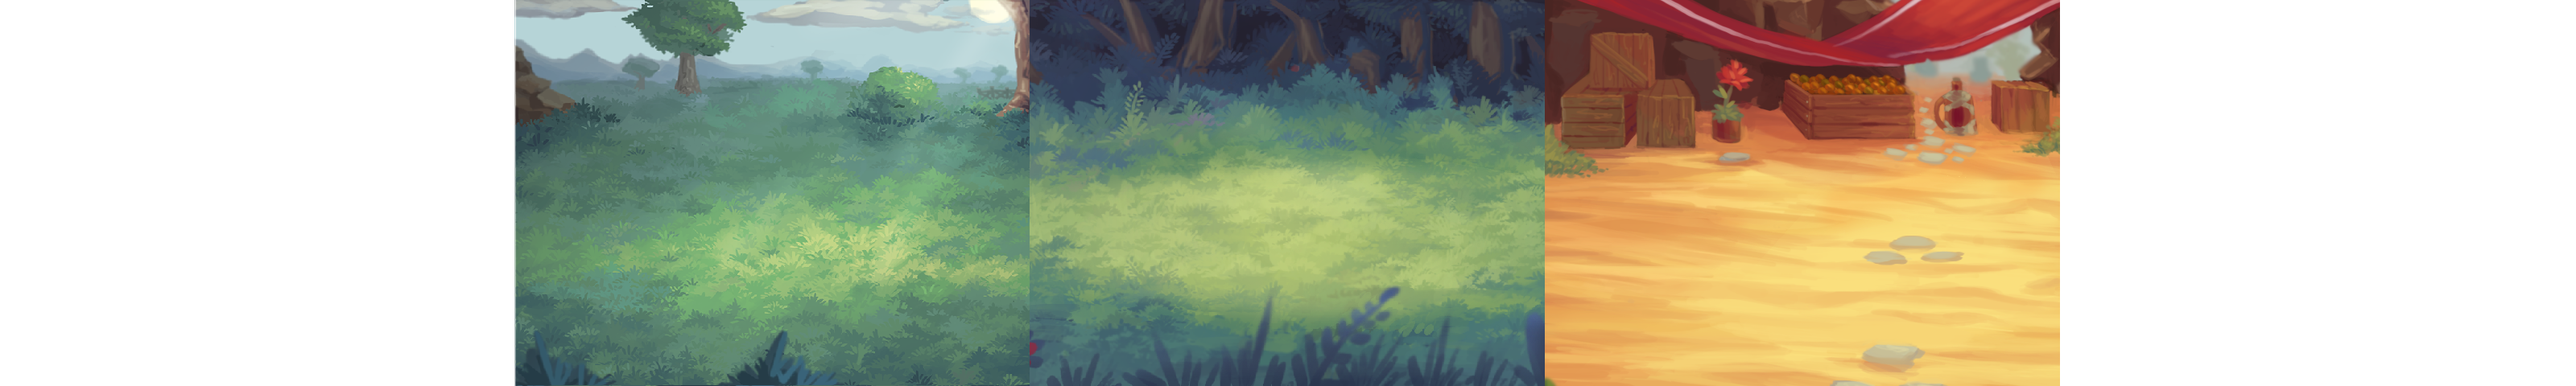
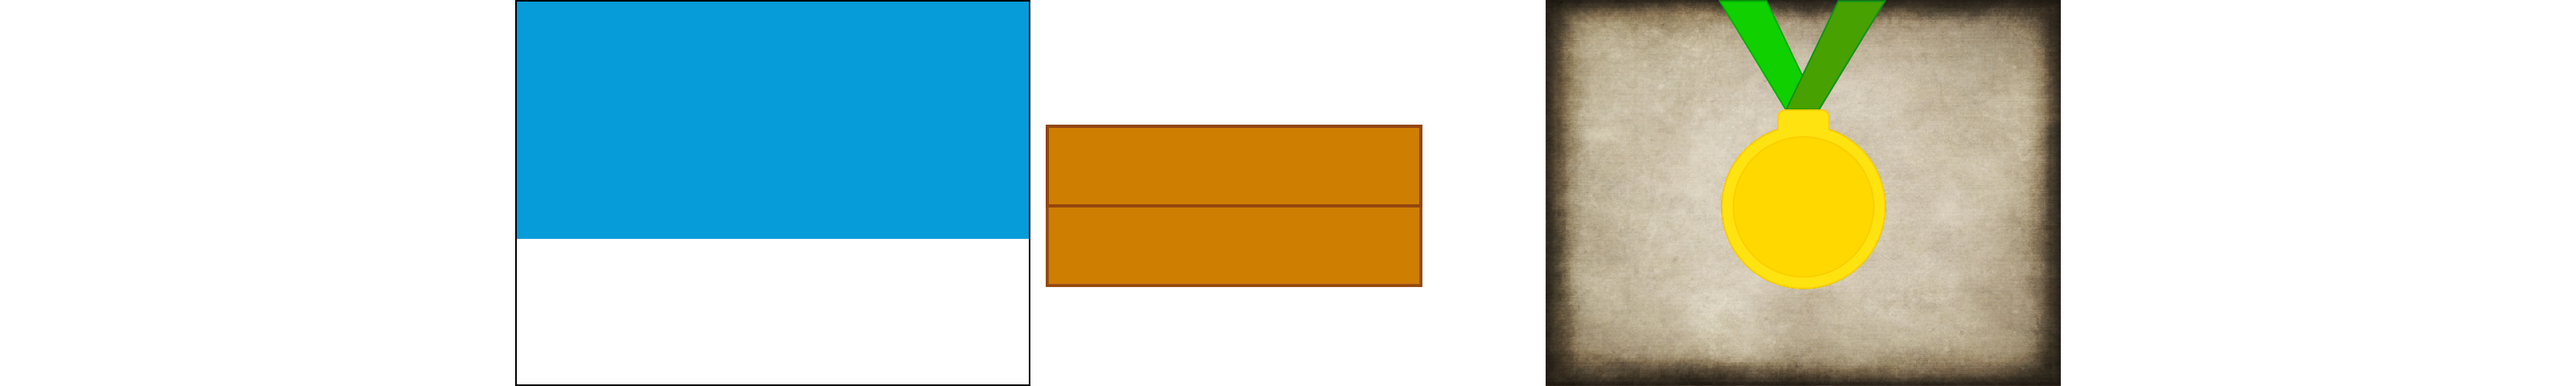
update

diff --git a/demo-core/src/hundun/gdxgame/idledemo/logic/TextureManager.java b/demo-core/src/hundun/gdxgame/idledemo/logic/TextureManager.java
@@ -28,33 +28,33 @@ public class TextureManager extends AbstractTextureManager {
         {
             Texture texture = new Texture(Gdx.files.internal("resourceEntities.png"));
             TextureRegion[][] regions = TextureRegion.split(texture, 32, 32);
-            constructionEntityMap.put(ConstructionId.COOKIE_CLICK_PROVIDER, regions[0][0]);
-            constructionEntityMap.put(ConstructionId.COOKIE_AUTO_PROVIDER, regions[0][1]);
-            constructionEntityMap.put(ConstructionId.COOKIE_SELLER, regions[0][2]);
-            constructionEntityMap.put(ConstructionId.WIN_PROVIDER, regions[0][3]);
+            resourceEntityMap.put(ResourceType.COOKIE, regions[0][1]);
         }
         {
             Texture texture = new Texture(Gdx.files.internal("constructionEntities.png"));
-            TextureRegion[][] regions = TextureRegion.split(texture, 16, 32);
-            constructionEntityMap.put(ConstructionId.COOKIE_CLICK_PROVIDER, regions[0][0]);
+            TextureRegion[][] regions = TextureRegion.split(texture, 32, 32);
+            //constructionEntityMap.put(ConstructionId.COOKIE_CLICK_PROVIDER, regions[0][0]);
             constructionEntityMap.put(ConstructionId.COOKIE_AUTO_PROVIDER, regions[0][1]);
             constructionEntityMap.put(ConstructionId.COOKIE_SELLER, regions[0][2]);
-            constructionEntityMap.put(ConstructionId.WIN_PROVIDER, regions[0][3]);
+            //constructionEntityMap.put(ConstructionId.WIN_PROVIDER, regions[0][3]);
         }  
         {
             Texture texture = new Texture(Gdx.files.internal("gameAreaIcons.png"));
             TextureRegion[][] regions = TextureRegion.split(texture, 100, 50);
-            gameAreaLeftPartRegionMap.put(GameArea.AREA_0, regions[0][0]);
-            gameAreaLeftPartRegionMap.put(GameArea.AREA_1, regions[1][0]);
-            gameAreaRightPartRegionMap.put(GameArea.AREA_0, regions[0][1]);
-            gameAreaRightPartRegionMap.put(GameArea.AREA_1, regions[1][1]);
+            gameAreaLeftPartRegionMap.put(GameArea.AREA_COOKIE, regions[0][0]);
+            gameAreaLeftPartRegionMap.put(GameArea.AREA_BUILDING, regions[1][0]);
+            gameAreaLeftPartRegionMap.put(GameArea.AREA_WIN, regions[2][0]);
+            gameAreaRightPartRegionMap.put(GameArea.AREA_COOKIE, regions[0][1]);
+            gameAreaRightPartRegionMap.put(GameArea.AREA_BUILDING, regions[1][1]);
+            gameAreaRightPartRegionMap.put(GameArea.AREA_WIN, regions[2][1]);
         }
         {
             Texture texture = new Texture(Gdx.files.internal("areas.png"));
             TextureRegion[][] regions = TextureRegion.split(texture, 640, 480);
             defaultAreaBack = regions[0][0];
-            gameAreaBackMap.put(GameArea.AREA_0, regions[0][1]);
-            gameAreaBackMap.put(GameArea.AREA_1, regions[0][2]);
+            gameAreaBackMap.put(GameArea.AREA_COOKIE, regions[0][1]);
+            gameAreaBackMap.put(GameArea.AREA_BUILDING, regions[0][2]);
+            gameAreaBackMap.put(GameArea.AREA_WIN, regions[0][3]);
         }
         
     }

diff --git a/idleframe/src/hundun/gdxgame/idleframe/model/entity/RandomMoveEntity.java b/idleframe/src/hundun/gdxgame/idleframe/model/entity/RandomMoveEntity.java
@@ -1,4 +1,8 @@
 package hundun.gdxgame.idleframe.model.entity;
+
+import lombok.Getter;
+import lombok.Setter;
+
 /**
  * @author hundun
  * Created on 2021/12/04
@@ -10,7 +14,9 @@ public class RandomMoveEntity extends GameEntity {
     public float FLY_MIN_Y;
     public float FLY_MAX_Y;
     private double FLY_UNION_SPEED;
-    
+    @Setter
+    @Getter
+    int randomMoveCount;
     
     
     public RandomMoveEntity(float FLY_MIN_X, float FLY_MAX_X, float FLY_MIN_Y, float FLY_MAX_Y,
@@ -26,29 +32,28 @@ public class RandomMoveEntity extends GameEntity {
 
 
     @Override
-    public void checkRandomeMoveSpeedChange() {
-        if (this.isRandomMove()) {
-            if (this.getRandomMoveCount() > 0) {
-                this.setRandomMoveCount(this.getRandomMoveCount() - 1);
-            } else {
-                this.setRandomMoveCount(50 + (int) (Math.random() * 50));
-                double angle = Math.toRadians(Math.random() * 360);
-                double unionSpeed = FLY_UNION_SPEED;
-                this.setSpeedX((float) (unionSpeed * Math.cos(angle)));
-                this.setSpeedY((float) (unionSpeed * Math.sin(angle)));
-            }
-            
-            if ((this.getX() < FLY_MIN_X && this.getSpeedX() < 0) 
-                    || (this.getX() + this.getDrawWidth() > FLY_MAX_X && this.getSpeedX() > 0)) {
-                this.setSpeedX(this.getSpeedX() * -1);
-            }
-            if ((this.getY() < FLY_MIN_Y && this.getSpeedY() < 0) 
-                    || (this.getY() + this.getDrawHeight() > FLY_MAX_Y && this.getSpeedY() > 0)) {
-                this.setSpeedY(this.getSpeedY() * -1);
-            }
-            
-            this.setTextureFlipX(this.getSpeedX() < 0);
-
+    public void checkMoveSpeedChange() {
+        if (this.getRandomMoveCount() > 0) {
+            this.setRandomMoveCount(this.getRandomMoveCount() - 1);
+        } else {
+            this.setRandomMoveCount(50 + (int) (Math.random() * 50));
+            double angle = Math.toRadians(Math.random() * 360);
+            double unionSpeed = FLY_UNION_SPEED;
+            this.setSpeedX((float) (unionSpeed * Math.cos(angle)));
+            this.setSpeedY((float) (unionSpeed * Math.sin(angle)));
         }
+        
+        if ((this.getX() < FLY_MIN_X && this.getSpeedX() < 0) 
+                || (this.getX() + this.getDrawWidth() > FLY_MAX_X && this.getSpeedX() > 0)) {
+            this.setSpeedX(this.getSpeedX() * -1);
+        }
+        if ((this.getY() < FLY_MIN_Y && this.getSpeedY() < 0) 
+                || (this.getY() + this.getDrawHeight() > FLY_MAX_Y && this.getSpeedY() > 0)) {
+            this.setSpeedY(this.getSpeedY() * -1);
+        }
+        
+        this.setTextureFlipX(this.getSpeedX() < 0);
+
     }
+
 }

diff --git a/idleframe/src/hundun/gdxgame/idleframe/model/entity/BaseGameEntityFactory.java b/idleframe/src/hundun/gdxgame/idleframe/model/entity/BaseGameEntityFactory.java
@@ -33,6 +33,26 @@ public abstract class BaseGameEntityFactory {
         this.parent = parent;
     }
     
+    protected GameEntity failingResourcEntity(String resourceId, int MIN_X, int MAX_X, int START_Y, int REMOVE_Y, double BASE_FAILING_SPEED, double FAILING_SPEED_RANDOM_RANGE) {
+        Sprite sprite = new Sprite(parent.game.getTextureManager().getResourceEntity(resourceId));
+        MAX_X = (int) (MAX_X - DEFAULT_RESOURCE_WIDTH_SCALE * sprite.getRegionWidth());
+        REMOVE_Y = (int) (REMOVE_Y + DEFAULT_RESOURCE_HEIGHT_SCALE * sprite.getRegionHeight());
+        int randX = (int) (MIN_X + Math.random() * (MAX_X - MIN_X));
+        double speed = BASE_FAILING_SPEED + Math.random() * FAILING_SPEED_RANDOM_RANGE;
+        
+        FailingEntity entity = new FailingEntity(REMOVE_Y);
+        entity.setTexture(sprite);
+        entity.setX(randX);
+        entity.setY(START_Y);
+        entity.setDrawWidth((int) (DEFAULT_RESOURCE_WIDTH_SCALE * entity.getTexture().getRegionWidth()));
+        entity.setDrawHeight((int) (DEFAULT_RESOURCE_HEIGHT_SCALE * entity.getTexture().getRegionHeight()));
+        entity.setMoveable(true);
+        entity.setSpeedY((float) (-1.0 * speed));
+        entity.checkMoveSpeedChange();
+        return entity;
+    }
+    
+    
     protected GameEntity randomMoveResourcEntity(String resourceId, int MIN_X, int MAX_X, int MIN_Y, int MAX_Y, double FLY_UNION_SPEED) {
         Sprite sprite = new Sprite(parent.game.getTextureManager().getResourceEntity(resourceId));
         MAX_X = (int) (MAX_X - DEFAULT_RESOURCE_WIDTH_SCALE * sprite.getRegionWidth());
@@ -44,9 +64,8 @@ public abstract class BaseGameEntityFactory {
         entity.setY((MAX_Y - MIN_Y) / 2);
         entity.setDrawWidth(entity.getTexture().getRegionWidth());
         entity.setDrawHeight(entity.getTexture().getRegionHeight());
-        entity.setRandomMove(true);
-        entity.setRandomMoveCount(0);
-        entity.checkRandomeMoveSpeedChange();
+        entity.setMoveable(true);
+        entity.checkMoveSpeedChange();
         return entity;
     }
     
@@ -87,7 +106,7 @@ public abstract class BaseGameEntityFactory {
         entity.setY(y);
         entity.setDrawWidth((int) (WIDTH_SCALE * entity.getTexture().getRegionWidth()));
         entity.setDrawHeight((int) (HEIGHT_SCALE * entity.getTexture().getRegionHeight()));
-        entity.setRandomMove(false);
+        entity.setMoveable(false);
         return entity;
     }
     

diff --git a/demo-core/src/hundun/gdxgame/idledemo/ui/screen/PlayScreen.java b/demo-core/src/hundun/gdxgame/idledemo/ui/screen/PlayScreen.java
@@ -34,7 +34,7 @@ import hundun.gdxgame.idlestarter.ui.screen.play.PlayScreenLayoutConst;
 public class PlayScreen extends BasePlayScreen<IdleDemoGame> {
 
     public PlayScreen(IdleDemoGame game) {
-        super(game, GameArea.AREA_0, new PlayScreenLayoutConst(game.LOGIC_WIDTH, game.LOGIC_HEIGHT));
+        super(game, GameArea.AREA_COOKIE, new PlayScreenLayoutConst(game.LOGIC_WIDTH, game.LOGIC_HEIGHT));
     }
     
     @Override
@@ -53,15 +53,17 @@ public class PlayScreen extends BasePlayScreen<IdleDemoGame> {
         
         storageInfoTable = new StorageInfoBoard<IdleDemoGame>(this);
         storageInfoTable.lazyInit(ResourceType.VALUES_FOR_SHOW_ORDER);
-        uiRootTable.add(storageInfoTable).height(layoutConst.STORAGE_BOARD_BORDER_HEIGHT).row();
+        uiRootTable.add(storageInfoTable).height(layoutConst.STORAGE_BOARD_BORDER_HEIGHT).fill().row();
         
         gameAreaControlBoard = new GameAreaControlBoard<IdleDemoGame>(this, GameArea.values);
         uiRootTable.add(gameAreaControlBoard).expand().right().row();
 
         constructionControlBoard = new ConstructionControlBoard<IdleDemoGame>(this);
-        uiRootTable.add(constructionControlBoard).height(layoutConst.CONSTRUCION_BOARD_BORDER_HEIGHT);
+        uiRootTable.add(constructionControlBoard).height(layoutConst.CONSTRUCION_BOARD_BORDER_HEIGHT).fill();
         
-        uiRootTable.debugCell();
+        if (game.debugMode) {
+            uiRootTable.debugCell();
+        }
     }
     
     @Override

diff --git a/demo-core/src/hundun/gdxgame/idledemo/IdleDemoGameConfig.java b/demo-core/src/hundun/gdxgame/idledemo/IdleDemoGameConfig.java
@@ -30,12 +30,14 @@ public class IdleDemoGameConfig extends ChildGameConfig {
         this.setConstructions(builtinConstructionsLoader.load());
         
         Map<String, List<String>> areaShownConstructionIds = new HashMap<>(); 
-        areaShownConstructionIds.put(GameArea.AREA_0, Arrays.asList(
-                ConstructionId.COOKIE_CLICK_PROVIDER,
+        areaShownConstructionIds.put(GameArea.AREA_COOKIE, Arrays.asList(
+                ConstructionId.COOKIE_CLICK_PROVIDER
+        ));
+        areaShownConstructionIds.put(GameArea.AREA_BUILDING, Arrays.asList(
                 ConstructionId.COOKIE_AUTO_PROVIDER,
                 ConstructionId.COOKIE_SELLER
         ));
-        areaShownConstructionIds.put(GameArea.AREA_1, Arrays.asList(
+        areaShownConstructionIds.put(GameArea.AREA_WIN, Arrays.asList(
                 ConstructionId.WIN_PROVIDER
         ));
 
@@ -43,7 +45,7 @@ public class IdleDemoGameConfig extends ChildGameConfig {
         this.setAreaShowEntityConstructionIds(areaShownConstructionIds);
         
         Map<String, List<String>> areaShownResourceIds = new HashMap<>(); 
-        areaShownResourceIds.put(GameArea.AREA_0, Arrays.asList(
+        areaShownResourceIds.put(GameArea.AREA_COOKIE, Arrays.asList(
             ResourceType.COOKIE
         ));
         this.setAreaShowEntityResourceIds(areaShownResourceIds);

diff --git a/idleframe/src/hundun/gdxgame/idleframe/model/manager/GameEntityManager.java b/idleframe/src/hundun/gdxgame/idleframe/model/manager/GameEntityManager.java
@@ -42,15 +42,22 @@ public class GameEntityManager {
         for (var entry : gameEntitiesOfConstructionIds.entrySet()) {
             Queue<GameEntity> queue = entry.getValue();
             queue.forEach(entity -> {
-                entity.checkRandomeMoveSpeedChange();
+                entity.checkMoveSpeedChange();
                 positionChange(entity);
             });
         }
         
         for (var entry : gameEntitiesOfResourceIds.entrySet()) {
             Queue<GameEntity> queue = entry.getValue();
+            queue.removeIf(entity -> {
+                boolean remove = entity.checkRemove();
+                if (remove) {
+                    Gdx.app.log(this.getClass().getSimpleName(), "entity removed by self check");
+                }
+                return remove;
+                });
             queue.forEach(entity -> {
-                entity.checkRandomeMoveSpeedChange();
+                entity.checkMoveSpeedChange();
                 positionChange(entity);
             });
 
@@ -75,7 +82,7 @@ public class GameEntityManager {
     }
     
     private void positionChange(GameEntity entity) {
-        if (entity.isRandomMove()) {
+        if (entity.isMoveable()) {
             entity.setX(entity.getX() + entity.getSpeedX());
             entity.setY(entity.getY() + entity.getSpeedY());
         }

diff --git a/demo-core/src/hundun/gdxgame/idledemo/ui/entity/GameEntityFactory.java b/demo-core/src/hundun/gdxgame/idledemo/ui/entity/GameEntityFactory.java
@@ -24,7 +24,7 @@ public class GameEntityFactory extends BaseGameEntityFactory {
     
     public float FLY_UNION_SPEED = 2;
 
-    public float RESOURCE_MAX_DRAW_NUM = 5;
+    public float RESOURCE_MAX_DRAW_NUM = 15;
     
     public GameEntityFactory(PlayScreenLayoutConst layoutConst, BasePlayScreen<IdleDemoGame> parent) {
         super(layoutConst, parent);
@@ -62,6 +62,7 @@ public class GameEntityFactory extends BaseGameEntityFactory {
     public GameEntity newResourceEntity(String resourceId) {
         switch (resourceId) {
             case ResourceType.COOKIE:
+                //return this.failingResourcEntity(resourceId, layoutConst.EXPECTED_DRAW_MIN_X, layoutConst.EXPECTED_DRAW_MAX_X, layoutConst.EXPECTED_DRAW_MAX_Y, layoutConst.EXPECTED_DRAW_MIN_Y, FLY_UNION_SPEED, FLY_UNION_SPEED * 0.2);
                 return this.randomMoveResourcEntity(resourceId, layoutConst.EXPECTED_DRAW_MIN_X, layoutConst.EXPECTED_DRAW_MAX_X, layoutConst.EXPECTED_DRAW_MIN_Y, layoutConst.EXPECTED_DRAW_MAX_Y, FLY_UNION_SPEED);
             default:
                 return null;

diff --git a/idleframe/src/hundun/gdxgame/idlestarter/ui/component/BackgroundImageBox.java b/idleframe/src/hundun/gdxgame/idlestarter/ui/component/BackgroundImageBox.java
@@ -24,12 +24,14 @@ public class BackgroundImageBox<T_GAME extends BaseIdleGame> extends Container<I
     
     public BackgroundImageBox(BasePlayScreen<T_GAME> parent) {
         this.parent = parent;
-        this.setBounds(0, 0, Gdx.graphics.getWidth(), Gdx.graphics.getHeight());
+        this.setFillParent(true);
+        //this.setBounds(0, 0, Gdx.graphics.getWidth(), Gdx.graphics.getHeight());
         
         
         for (String gameArea : parent.game.getGameAreaValues()) {
             imageMap.put(gameArea, new SpriteDrawable(new Sprite(parent.game.getTextureManager().getBackgroundTexture(gameArea))));
         }
+        
     }
 
     @Override

diff --git a/demo-core/src/hundun/gdxgame/idledemo/logic/GameArea.java b/demo-core/src/hundun/gdxgame/idledemo/logic/GameArea.java
@@ -5,8 +5,9 @@ import java.util.List;
 
 
 public class GameArea {
-    public static final String AREA_0 = "ENUM_AREA@AREA_0";
-    public static final String AREA_1 = "ENUM_AREA@AREA_1";
+    public static final String AREA_COOKIE = "ENUM_AREA@AREA_COOKIE";
+    public static final String AREA_BUILDING = "ENUM_AREA@AREA_BUILDING";
+    public static final String AREA_WIN = "ENUM_AREA@AREA_WIN";
     
-    public static final List<String> values = Arrays.asList(AREA_0, AREA_1);
+    public static final List<String> values = Arrays.asList(AREA_COOKIE, AREA_BUILDING, AREA_WIN);
 }

diff --git a/idleframe/src/hundun/gdxgame/idlestarter/ui/screen/menu/MenuScreen.java b/idleframe/src/hundun/gdxgame/idlestarter/ui/screen/menu/MenuScreen.java
@@ -49,7 +49,8 @@ public class MenuScreen<T_GAME extends BaseIdleGame> extends BaseScreen<T_GAME> 
         }
         
         table = new Table();
-        table.setBounds((Gdx.graphics.getWidth() - BUTTON_WIDTH)/2, 0, BUTTON_WIDTH, Gdx.graphics.getHeight() / 2);
+        table.setFillParent(true);
+        //table.setBounds((game.LOGIC_WIDTH - BUTTON_WIDTH)/2, 0, BUTTON_WIDTH, game.LOGIC_HEIGHT / 2);
         uiStage.addActor(table);
         
         buttonContinueGame = new TextButton("Continue Game", game.getButtonSkin());

diff --git a/idleframe/src/hundun/gdxgame/idlestarter/ui/screen/play/PlayScreenLayoutConst.java b/idleframe/src/hundun/gdxgame/idlestarter/ui/screen/play/PlayScreenLayoutConst.java
@@ -10,7 +10,7 @@ public class PlayScreenLayoutConst {
     public int CONSTRUCION_BOARD_BORDER_HEIGHT = 120;
     
     public int STORAGE_BOARD_BORDER_HEIGHT = 60;
-    public int AREA_BOARD_BORDER_WIDTH = 75;
+    public int AREA_BOARD_BORDER_WIDTH = 100;
     public int AREA_BOARD_CELL_HEIGHT = 50;
 //    public static final int STORAGE_BOARD_CONTAIN_WIDTH = 100;
 //    public static final int STORAGE_BOARD_CONTAIN_HEIGHT = 50;

diff --git a/idleframe/src/hundun/gdxgame/idleframe/model/entity/GameEntity.java b/idleframe/src/hundun/gdxgame/idleframe/model/entity/GameEntity.java
@@ -17,12 +17,14 @@ public class GameEntity {
     float y;
     int drawWidth;
     int drawHeight;
-    boolean randomMove;
-    int randomMoveCount;
+    boolean moveable;
+    
     float speedX;
     float speedY;
     boolean textureFlipX;
     
-    public void checkRandomeMoveSpeedChange() {};
-    
+    public void checkMoveSpeedChange() {};
+    public boolean checkRemove() { 
+        return false;
+    };
 }
